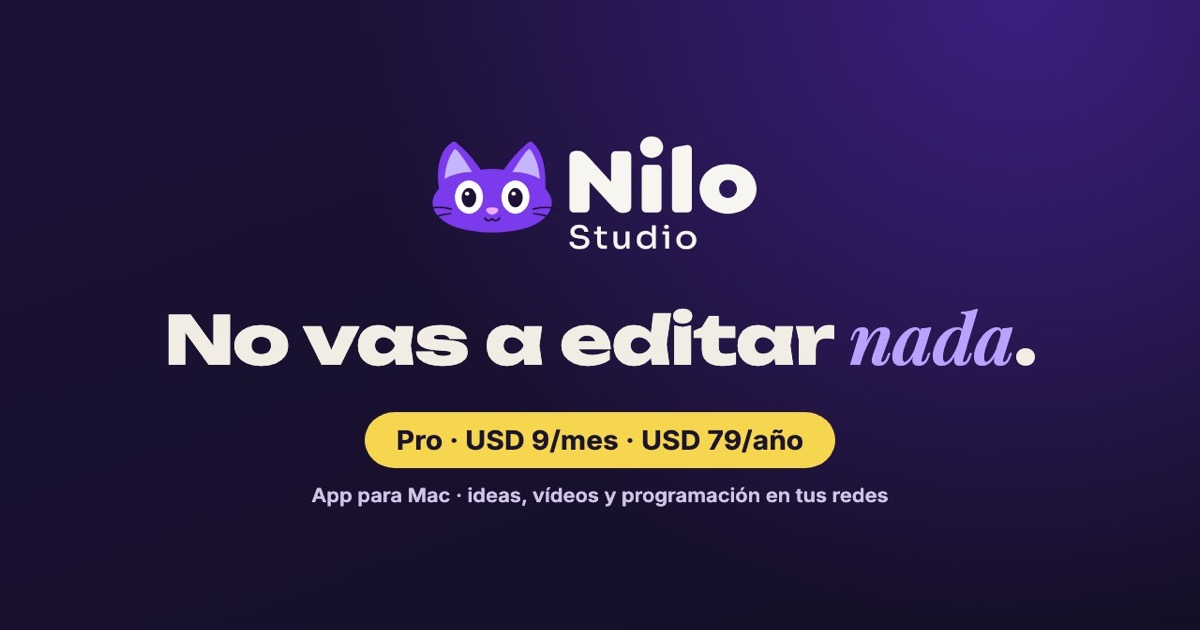
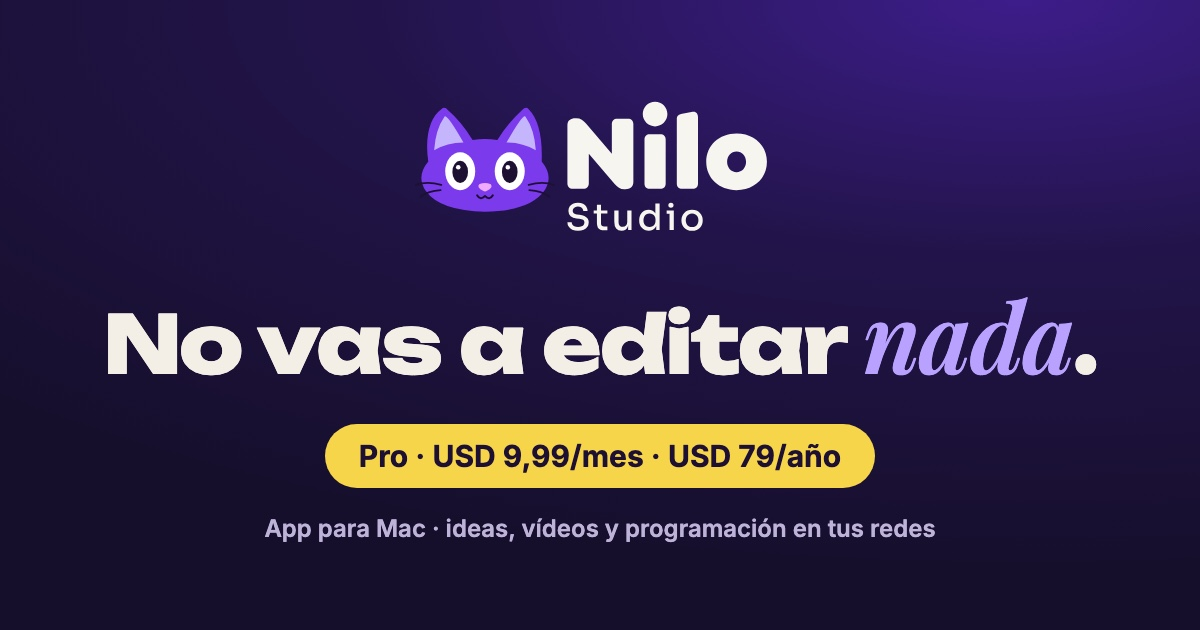
Precio 9,99, licencia hasta 2 Mac, SEO (datos estructurados, sitemap, robots, IndexNow)

Changed region(s): [[0.2158, 0.6333, 0.7708, 0.8746], [0.0925, 0.4524, 0.925, 0.6032], [0.3392, 0.1508, 0.6475, 0.3921]]

diff --git a/index.html b/index.html
@@ -3,15 +3,17 @@
 <head>
 <meta charset="utf-8">
 <meta name="viewport" content="width=device-width, initial-scale=1, viewport-fit=cover">
-<title>Nilo Studio · Tu vídeo, con un clic</title>
-<meta name="description" content="App para Mac: eliges una idea y apruebas el vídeo. La app escribe el guion, lo anima con tu voz, pone subtítulos y portada y lo programa en TikTok, Instagram, YouTube y Facebook. Más de 180 estilos. Pro mensual o anual.">
+<title>Nilo Studio · Crea vídeos con IA para TikTok, Reels y Shorts en tu Mac</title>
+<meta name="description" content="App para Mac que crea vídeos verticales con IA: guion, voz, animación, subtítulos y portada. Los programa en TikTok, Instagram Reels, YouTube Shorts y Facebook. Más de 180 estilos. Desde USD 9,99 al mes.">
+<meta name="robots" content="index, follow, max-image-preview:large">
+<meta name="author" content="Nilo Studio">
 <meta name="theme-color" content="#2A0E5C">
 <meta property="og:type" content="website">
 <meta property="og:url" content="https://danerrq.github.io/">
 <meta property="og:site_name" content="Nilo Studio">
 <meta property="og:locale" content="es_ES">
 <meta property="og:title" content="Nilo Studio · No vas a editar nada">
-<meta property="og:description" content="Eliges una idea y apruebas el vídeo. La app escribe, anima con tu voz, pone subtítulos y lo programa en 4 redes. Desde USD 9 al mes.">
+<meta property="og:description" content="Eliges una idea y apruebas el vídeo. La app escribe, anima con tu voz, pone subtítulos y lo programa en 4 redes. Desde USD 9,99 al mes.">
 <meta property="og:image" content="https://danerrq.github.io/assets/marca/og.jpg">
 <meta property="og:image:width" content="1200">
 <meta property="og:image:height" content="630">
@@ -26,7 +28,8 @@
 <link rel="preconnect" href="https://fonts.googleapis.com">
 <link rel="preconnect" href="https://fonts.gstatic.com" crossorigin>
 <link rel="stylesheet" href="https://fonts.googleapis.com/css2?family=Inter:wght@400;500;600;700&family=Playfair+Display:ital,wght@1,600&family=Unbounded:wght@700;800&display=swap">
-<link rel="stylesheet" href="assets/css/web.css?v=20261124b">
+<link rel="stylesheet" href="assets/css/web.css?v=20261125a">
+<script type="application/ld+json">[{"@context": "https://schema.org", "@type": "SoftwareApplication", "name": "Nilo Studio", "operatingSystem": "macOS 12 o superior", "applicationCategory": "MultimediaApplication", "applicationSubCategory": "Editor de vídeo con IA", "inLanguage": "es", "url": "https://danerrq.github.io/", "image": "https://danerrq.github.io/assets/marca/og.jpg", "description": "App para Mac que convierte una idea en vídeos verticales terminados (guion, voz, animación, subtítulos y portada) y los programa en TikTok, Instagram, Facebook y YouTube.", "featureList": ["Guion y ganchos con IA", "Narración con tu voz", "Más de 180 estilos de animación", "Subtítulos y portada automáticos", "Programación y publicación en TikTok, Instagram, Facebook y YouTube", "Métricas de las 4 redes y «Lo que funciona»"], "offers": [{"@type": "Offer", "name": "Pro mensual", "price": "9.99", "priceCurrency": "USD", "url": "https://gumroad.com/l/nilostudio-pro", "availability": "https://schema.org/InStock"}, {"@type": "Offer", "name": "Pro anual", "price": "79", "priceCurrency": "USD", "url": "https://gumroad.com/l/nilostudio-pro", "availability": "https://schema.org/InStock"}]}, {"@context": "https://schema.org", "@type": "FAQPage", "mainEntity": [{"@type": "Question", "name": "¿Qué necesito para usarla?", "acceptedAnswer": {"@type": "Answer", "text": "Funciona en tu Mac con tu plan de Claude Pro o Max, que es el motor que escribe y anima. Por ahora no hay versión para Windows. No funciona con ChatGPT: ChatGPT solo te sirve para los prompts de nicho."}}, {"@type": "Question", "name": "¿Me pueden bloquear la cuenta?", "acceptedAnswer": {"@type": "Answer", "text": "Publica desde tu navegador, con tu sesión y como lo harías tú. Cada red tiene sus normas sobre automatización, así que úsalo con un ritmo normal. Nadie puede garantizar que una red no limite o bloquee una cuenta: el uso de cada red es responsabilidad de quien la usa."}}, {"@type": "Question", "name": "¿Cuánto cuesta Claude?", "acceptedAnswer": {"@type": "Answer", "text": "Se paga aparte, a Anthropic. Pro: USD 20 al mes. Max: USD 100 o 200 al mes, con 5 o 20 veces más uso. Nilo Studio va aparte: USD 9,99 al mes o USD 79 al año."}}, {"@type": "Question", "name": "¿Cuántos vídeos salen con Pro y con Max?", "acceptedAnswer": {"@type": "Answer", "text": "Depende del estilo y de la duración. Con Pro, de 3 a 5 a la semana en los estilos de bajo consumo. Con Max tienes más margen, porque el plan incluye más uso. La app te muestra cuánto gasta cada estilo."}}, {"@type": "Question", "name": "¿En cuántos Mac la puedo usar?", "acceptedAnswer": {"@type": "Answer", "text": "Tu licencia es para ti y la puedes activar en hasta 2 Mac tuyos (por ejemplo, el portátil y el de escritorio). Si cambias de ordenador, la pasas tú mismo desde la app (Configuración › Licencia) o nos escribes."}}, {"@type": "Question", "name": "¿Qué pasa si cancelo o termina mi suscripción?", "acceptedAnswer": {"@type": "Answer", "text": "Pasas al plan Gratis. Durante 10 días puedes ver lo que hiciste, y lo ya programado o en cola se publica igual. No puedes crear vídeos nuevos. Después de esos 10 días la app se bloquea hasta que renueves. Al renovar, todo vuelve al momento y no pierdes nada."}}, {"@type": "Question", "name": "¿Y si no me funciona?", "acceptedAnswer": {"@type": "Answer", "text": "Tienes 14 días de garantía. Si en ese tiempo no consigues hacer y programar tu primer vídeo, escríbenos y te devolvemos el dinero."}}, {"@type": "Question", "name": "¿Qué plan me conviene?", "acceptedAnswer": {"@type": "Answer", "text": "Si quieres probar, el Pro mensual: cancelas cuando quieras. Si vas a publicar todo el año, el Pro anual sale más barato: más de 4 meses gratis. Los dos traen la app completa."}}]}]</script>
 </head>
 <body>
 
@@ -90,7 +93,7 @@
       <h1>No vas a <span class="tachado">editar</span> nada. La app lo hace <span class="clave sel">todo</span> por ti, con un clic.</h1>
       <p class="bajada">Eliges una idea y apruebas el vídeo. La app escribe el guion, lo anima con tu voz, le pone subtítulos y lo deja programado en TikTok, Instagram, YouTube y Facebook.</p>
       <div class="acciones">
-        <a class="btn comprar grande" href="#precio">Quiero Nilo Studio <span class="precio-btn">desde USD <span data-plan-precio="mensual">9</span>/mes</span></a>
+        <a class="btn comprar grande" href="#precio">Quiero Nilo Studio <span class="precio-btn">desde USD <span data-plan-precio="mensual">9,99</span>/mes</span></a>
         <a class="btn grande" href="#como"><svg aria-hidden="true"><use href="#i-play"/></svg>Verlo en acción</a>
       </div>
       <ul class="confianza">
@@ -283,7 +286,7 @@
       </article>
       <article class="plan entra" style="--retraso:120ms">
         <h3>Pro mensual</h3>
-        <div class="plan-cifra"><span class="moneda">USD</span><b data-plan-precio="mensual">9</b><span class="per">al mes</span></div>
+        <div class="plan-cifra"><span class="moneda">USD</span><b data-plan-precio="mensual">9,99</b><span class="per">al mes</span></div>
         <p class="plan-sub">Todo Nilo Studio. Cancela cuando quieras.</p>
         <ul class="incluye">
           <li><svg aria-hidden="true"><use href="#i-check"/></svg>La app completa</li>
@@ -296,7 +299,7 @@
         <span class="sello-plan">MEJOR VALOR</span>
         <h3>Pro anual</h3>
         <div class="plan-cifra"><span class="moneda">USD</span><b data-plan-precio="anual">79</b><span class="per">al año</span></div>
-        <p class="plan-sub">Todo Nilo Studio con <b>2 meses gratis</b>. <span class="equivale">Sale a USD <span data-plan-mes="anual">6,58</span> al mes.</span></p>
+        <p class="plan-sub">Todo Nilo Studio con <b>más de 4 meses gratis</b> frente al mensual. <span class="equivale">Sale a USD <span data-plan-mes="anual">6,58</span> al mes.</span></p>
         <ul class="incluye">
           <li><svg aria-hidden="true"><use href="#i-check"/></svg>La app completa</li>
           <li><svg aria-hidden="true"><use href="#i-check"/></svg>Más de 180 estilos</li>
@@ -368,19 +371,19 @@
       <details><summary>¿Me pueden bloquear la cuenta?<span class="mas"><svg aria-hidden="true"><use href="#i-mas"/></svg></span></summary>
         <div class="resp"><p>Publica <b>desde tu navegador, con tu sesión y como lo harías tú</b>. Cada red tiene sus normas sobre automatización, así que úsalo con un ritmo normal. Nadie puede garantizar que una red no limite o bloquee una cuenta: el uso de cada red es responsabilidad de quien la usa.</p></div></details>
       <details><summary>¿Cuánto cuesta Claude?<span class="mas"><svg aria-hidden="true"><use href="#i-mas"/></svg></span></summary>
-        <div class="resp"><p>Se paga aparte, a Anthropic. <b>Pro: USD 20 al mes.</b> Max: USD 100 o 200 al mes, con 5 o 20 veces más uso. Nilo Studio va aparte: USD 9 al mes o USD 79 al año.</p></div></details>
+        <div class="resp"><p>Se paga aparte, a Anthropic. <b>Pro: USD 20 al mes.</b> Max: USD 100 o 200 al mes, con 5 o 20 veces más uso. Nilo Studio va aparte: USD 9,99 al mes o USD 79 al año.</p></div></details>
       <details><summary>¿Cuántos vídeos salen con Pro y con Max?<span class="mas"><svg aria-hidden="true"><use href="#i-mas"/></svg></span></summary>
         <div class="resp"><p>Depende del estilo y de la duración. <b>Con Pro, de 3 a 5 a la semana</b> en los estilos de bajo consumo. <b>Con Max</b> tienes más margen, porque el plan incluye más uso. La app te muestra cuánto gasta cada estilo.</p></div></details>
       <details id="como-instalar"><summary>¿Cómo se instala?<span class="mas"><svg aria-hidden="true"><use href="#i-mas"/></svg></span></summary>
         <div class="resp"><p>Al pagar recibes el enlace de descarga y tu clave por correo. Son <b>4 pasos y unos 10 minutos</b>: descomprimes, la abres en Claude Code, escribes «instala Nilo Studio» y pegas tu clave. <a href="#instalar">Mira la guía de instalación</a>.</p></div></details>
       <details><summary>¿En cuántos Mac la puedo usar?<span class="mas"><svg aria-hidden="true"><use href="#i-mas"/></svg></span></summary>
-        <div class="resp"><p>En <b>1 Mac</b> por licencia. Si cambias de ordenador, <a href="#contacto">escríbenos</a> y la pasamos al nuevo.</p></div></details>
+        <div class="resp"><p>Tu licencia es <b>para ti</b> y la puedes activar en <b>hasta 2 Mac tuyos</b> (por ejemplo, el portátil y el de escritorio). Si cambias de ordenador, la pasas tú mismo desde la app (Configuración › Licencia) o <a href="#contacto">nos escribes</a>.</p></div></details>
       <details><summary>¿Qué pasa si cancelo o termina mi suscripción?<span class="mas"><svg aria-hidden="true"><use href="#i-mas"/></svg></span></summary>
         <div class="resp"><p>Pasas al <b>plan Gratis</b>. Durante 10 días puedes ver lo que hiciste, y lo ya programado o en cola se publica igual. No puedes crear vídeos nuevos. Después de esos 10 días la app se bloquea hasta que renueves. Al renovar, todo vuelve al momento y <b>no pierdes nada</b>.</p></div></details>
       <details><summary>¿Y si no me funciona?<span class="mas"><svg aria-hidden="true"><use href="#i-mas"/></svg></span></summary>
         <div class="resp"><p>Tienes <b>14 días de garantía</b>. Si en ese tiempo no consigues hacer y programar tu primer vídeo, escríbenos y te devolvemos el dinero.</p></div></details>
       <details><summary>¿Qué plan me conviene?<span class="mas"><svg aria-hidden="true"><use href="#i-mas"/></svg></span></summary>
-        <div class="resp"><p>Si quieres probar, el <b>Pro mensual</b>: cancelas cuando quieras. Si vas a publicar todo el año, el <b>Pro anual</b> sale más barato, con 2 meses gratis. Los dos traen la app completa.</p></div></details>
+        <div class="resp"><p>Si quieres probar, el <b>Pro mensual</b>: cancelas cuando quieras. Si vas a publicar todo el año, el <b>Pro anual</b> sale más barato: más de 4 meses gratis. Los dos traen la app completa.</p></div></details>
       <details id="contacto"><summary>¿Cómo contacto con soporte?<span class="mas"><svg aria-hidden="true"><use href="#i-mas"/></svg></span></summary>
         <div class="resp"><p>Escríbenos por <b>mensaje directo en <a href="https://www.instagram.com/daner_q/" target="_blank" rel="noopener">Instagram</a></b>. Si ya compraste, ten a mano el correo con el que pagaste para encontrar tu pedido.</p></div></details>
     </div>
@@ -392,7 +395,7 @@
   <div class="envoltura">
     <div class="gato" id="gato-final" role="img" aria-label="Nilo, el gato, celebrando"></div>
     <h2>Tu próximo vídeo ya tiene <span class="clave sel">idea</span>.</h2>
-    <p class="bajada">Deja que Nilo Studio haga el resto. Desde USD <span data-plan-precio="mensual">9</span> al mes.</p>
+    <p class="bajada">Deja que Nilo Studio haga el resto. Desde USD <span data-plan-precio="mensual">9,99</span> al mes.</p>
     <a class="btn comprar grande" href="#precio">Ver los planes <svg class="flecha" aria-hidden="true"><use href="#i-flecha"/></svg></a>
   </div>
 </section>
@@ -437,13 +440,13 @@
 </footer>
 
 <div class="compra-fija" id="compra-fija" aria-hidden="true">
-  <span class="txt"><b>Desde USD <span data-plan-precio="mensual">9</span>/mes</b><span>Garantía de 14 días</span></span>
+  <span class="txt"><b>Desde USD <span data-plan-precio="mensual">9,99</span>/mes</b><span>Garantía de 14 días</span></span>
   <a class="btn comprar" href="#precio" tabindex="-1">Ver planes</a>
 </div>
 <div class="aviso" id="aviso" role="status"></div>
 
 <script src="assets/js/nilo-cat.js" defer></script>
 <script src="assets/js/animaciones.catalogo.js" defer></script>
-<script src="assets/js/web.js?v=20261124b" defer></script>
+<script src="assets/js/web.js?v=20261125a" defer></script>
 </body>
 </html>

diff --git a/assets/js/web.js b/assets/js/web.js
@@ -3,7 +3,7 @@
 // ── Ajustes ───────────────────────────────────────────────────────────────
 // Planes Pro mensual y Pro anual: el mismo producto de suscripción de Gumroad (aún no existe: créalo con ese enlace).
 const PLAN_SUSCRIPCION_URL = 'https://gumroad.com/l/nilostudio-pro';
-const PLAN_MENSUAL = 9, PLAN_ANUAL = 79; // USD
+const PLAN_MENSUAL = 9.99, PLAN_ANUAL = 79; // USD
 // Sin usar: oferta de lanzamiento desactivada al pasar a planes. Se deja por si se reactiva.
 const OFERTA_FIN = '2026-12-02T04:59:00Z';
 // Vídeo demo vertical 9:16 (p. ej. 'assets/video/demo.mp4'). Vacío = rotan los ejemplos reales.
@@ -37,7 +37,7 @@ const PLANES = {
   mensual: { precio: PLAN_MENSUAL, url: PLAN_SUSCRIPCION_URL },
   anual: { precio: PLAN_ANUAL, url: PLAN_SUSCRIPCION_URL }
 };
-$$('[data-plan-precio]').forEach(el => (el.textContent = PLANES[el.dataset.planPrecio].precio));
+$$('[data-plan-precio]').forEach(el => (el.textContent = String(PLANES[el.dataset.planPrecio].precio).replace('.', ',')));
 $$('[data-plan-mes]').forEach(el => (el.textContent = (PLANES[el.dataset.planMes].precio / 12).toFixed(2).replace('.', ',')));
 $$('[data-plan]').forEach(a => { a.href = PLANES[a.dataset.plan].url; a.target = '_blank'; a.rel = 'noopener'; });
 // Enlaces a una pregunta (#contacto, #como-instalar): la abren además de llevar a ella.
@@ -59,7 +59,7 @@ if (hayIO) {
 }
 
 /* ---------- cinta ---------- */
-const frases = ['No vas a editar nada', 'Idea → vídeo', 'Con tu voz', 'Subtítulos y portada', '4 redes', 'Más de 180 estilos', 'En español', 'Desde USD 9 al mes'];
+const frases = ['No vas a editar nada', 'Idea → vídeo', 'Con tu voz', 'Subtítulos y portada', '4 redes', 'Más de 180 estilos', 'En español', 'Desde USD 9,99 al mes'];
 $('#cinta').innerHTML = [...frases, ...frases, ...frases, ...frases].map(f => `<span>${f}</span>`).join('');
 
 /* ---------- vídeos: solo se reproducen cuando se ven ---------- */

diff --git a/terminos.html b/terminos.html
@@ -7,7 +7,7 @@
 <meta name="description" content="Términos de uso de Nilo Studio: planes, licencia, actualizaciones, garantía y reembolsos.">
 <link rel="icon" href="assets/marca/simbolo.svg" type="image/svg+xml">
 <link rel="canonical" href="https://danerrq.github.io/terminos.html">
-<link rel="stylesheet" href="assets/css/legal.css?v=20261124b">
+<link rel="stylesheet" href="assets/css/legal.css?v=20261125a">
 </head>
 <body>
 <header><a href="./" class="volver" aria-label="Volver a Nilo Studio"><img src="assets/marca/horizontal-fondo-oscuro.svg" alt="Nilo Studio" width="355" height="131"></a></header>
@@ -21,8 +21,8 @@
 
   <h2>2. Licencia</h2>
   <ul>
-    <li>Cada suscripción (Pro mensual o Pro anual) te da <b>una licencia para usar Nilo Studio en 1 Mac</b>.</li>
-    <li>La licencia es personal e <b>intransferible</b>. Para usarla en otro Mac, escríbenos: la liberamos del Mac anterior y la activas en el nuevo.</li>
+    <li>Cada suscripción (Pro mensual o Pro anual) te da <b>una licencia personal para usar Nilo Studio en hasta 2 Mac tuyos</b> (por ejemplo, tu portátil y tu ordenador de escritorio).</li>
+    <li>La licencia es personal e <b>intransferible</b>: no se comparte con otras personas. Si cambias de Mac, pásala desde la app (Configuración › Licencia › «Pasar mi licencia a otro Mac») o escríbenos y la liberamos.</li>
     <li>No puedes revender, compartir ni distribuir la app, su código o tu clave de licencia.</li>
     <li>Los vídeos que creas con la app son tuyos.</li>
   </ul>

diff --git a/privacidad.html b/privacidad.html
@@ -7,7 +7,7 @@
 <meta name="description" content="Política de privacidad de Nilo Studio: qué datos salen de tu Mac y cuáles no.">
 <link rel="icon" href="assets/marca/simbolo.svg" type="image/svg+xml">
 <link rel="canonical" href="https://danerrq.github.io/privacidad.html">
-<link rel="stylesheet" href="assets/css/legal.css?v=20261124b">
+<link rel="stylesheet" href="assets/css/legal.css?v=20261125a">
 </head>
 <body>
 <header><a href="./" class="volver" aria-label="Volver a Nilo Studio"><img src="assets/marca/horizontal-fondo-oscuro.svg" alt="Nilo Studio" width="355" height="131"></a></header>
